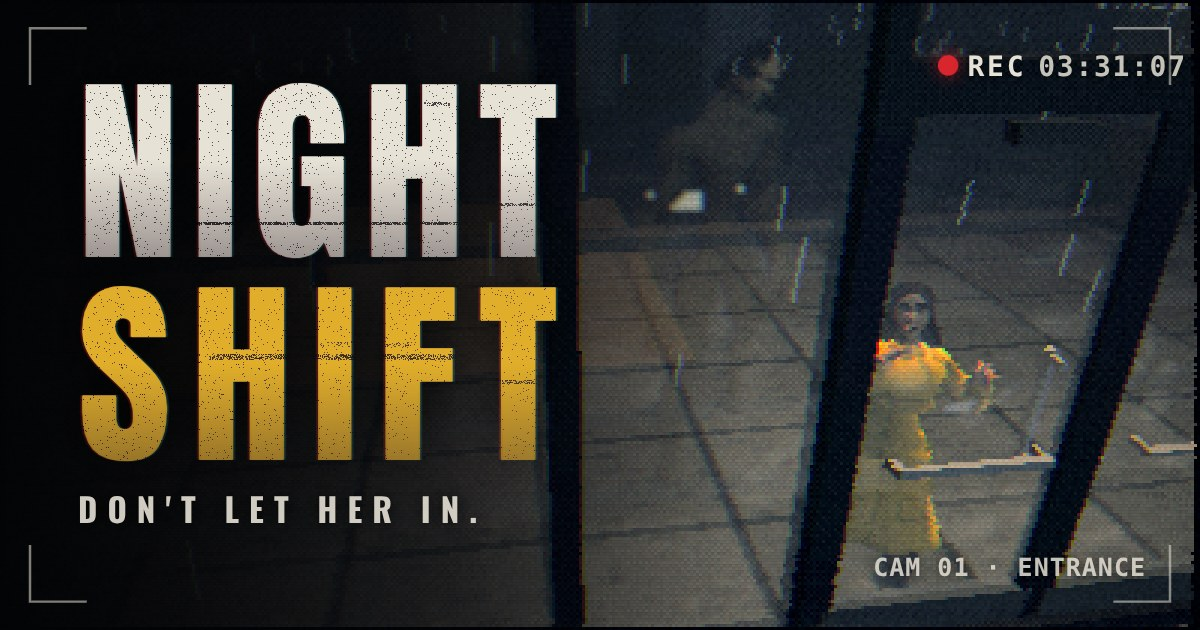
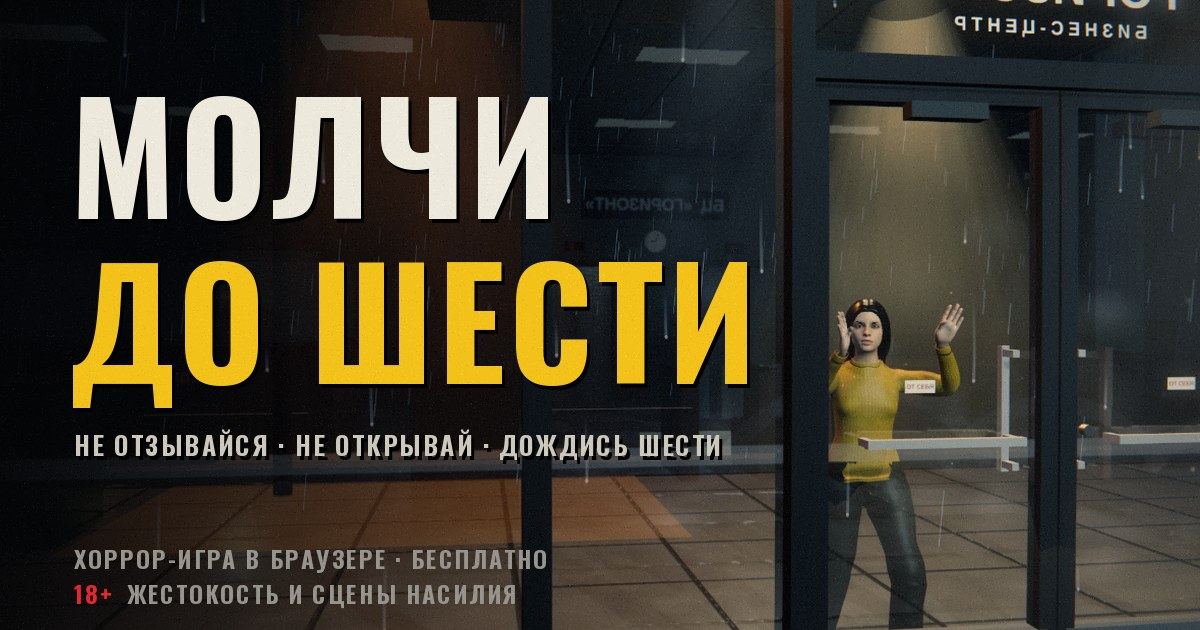
Молчи до шести: новая картинка-превью ссылки (кадр игры + название), лицензия шрифта логотипа
Claude-Session: https://claude.ai/code/session_01DiwnqB26fpYcSxva5WqzjX

diff --git a/public/games/nightshift/index.html b/public/games/nightshift/index.html
@@ -12,14 +12,14 @@
 <meta property="og:site_name" content="Yompix Games">
 <meta property="og:title" content="Молчи до шести — интерактивный хоррор">
 <meta property="og:description" content="Ночной охранник, четыре правила и сестра за стеклом. Не впускай её. Играй прямо в браузере.">
-<meta property="og:image" content="https://office-dreams-production.up.railway.app/games/nightshift/og.jpg">
+<meta property="og:image" content="https://office-dreams-production.up.railway.app/games/nightshift/og.jpg?v=2">
 <meta property="og:image:width" content="1200">
 <meta property="og:image:height" content="630">
 <meta property="og:image:alt" content="МОЛЧИ ДО ШЕСТИ: девушка в жёлтом свитере за стеклянной дверью ночью">
 <meta name="twitter:card" content="summary_large_image">
 <meta name="twitter:title" content="Молчи до шести — интерактивный хоррор">
 <meta name="twitter:description" content="Ночной охранник, четыре правила и сестра за стеклом. Не впускай её.">
-<meta name="twitter:image" content="https://office-dreams-production.up.railway.app/games/nightshift/og.jpg">
+<meta name="twitter:image" content="https://office-dreams-production.up.railway.app/games/nightshift/og.jpg?v=2">
 <link rel="manifest" href="manifest.json">
 <link rel="icon" href="favicon.ico" sizes="16x16 32x32 48x48">
 <link rel="icon" type="image/png" sizes="32x32" href="favicon-32.png">

diff --git a/tools/nightshift-shot.js b/tools/nightshift-shot.js
@@ -5,7 +5,7 @@
 // STEP=3 — считать каждый третий кадр; RS=.5 — внутреннее разрешение вдвое меньше (быстрые проверки)
 const { chromium } = require('/opt/node-tools/node_modules/playwright');
 const fs = require('fs');
-const LAND = process.env.LAND === '1', GFX = process.env.GFX || 'retro', CW = LAND ? 960 : 540, CH = LAND ? 540 : 960;
+const LAND = process.env.LAND === '1', GFX = process.env.GFX || 'retro', [CW, CH] = process.env.SIZE ? process.env.SIZE.split('x').map(Number) : LAND ? [960, 540] : [540, 960];   // SIZE=1200x675 — свой размер кадра
 const HTML = `<!doctype html><html><head><meta charset="utf-8"></head><body style="margin:0;background:#000">
 <script src="lib/three.min.js"></script><script src="lib/gltf.min.js"></script><script src="lib/meshopt_decoder.js"></script><script src="world.js"></script><script src="chars.js"></script><script src="chars2.js"></script><script src="scenes.js"></script>
 <canvas id="c" width="${CW}" height="${CH}"></canvas></body></html>`;
